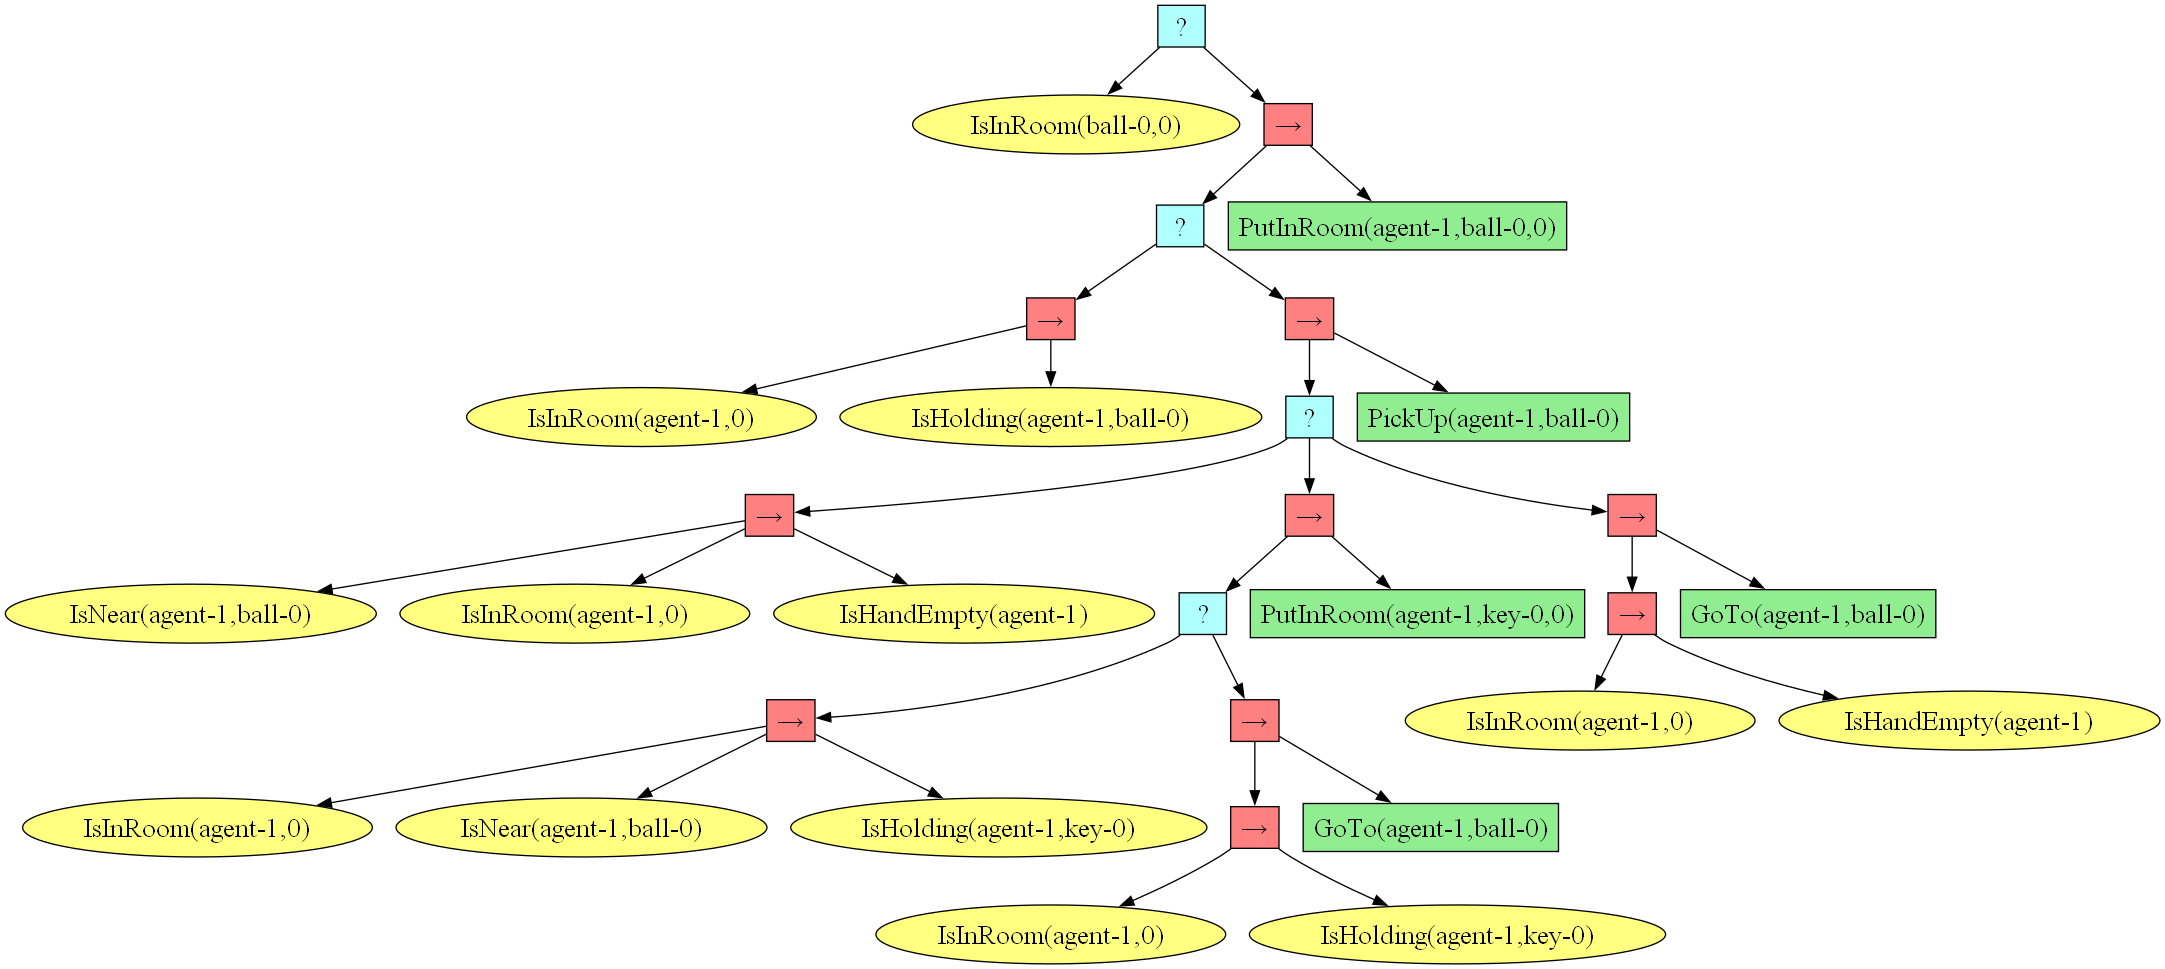
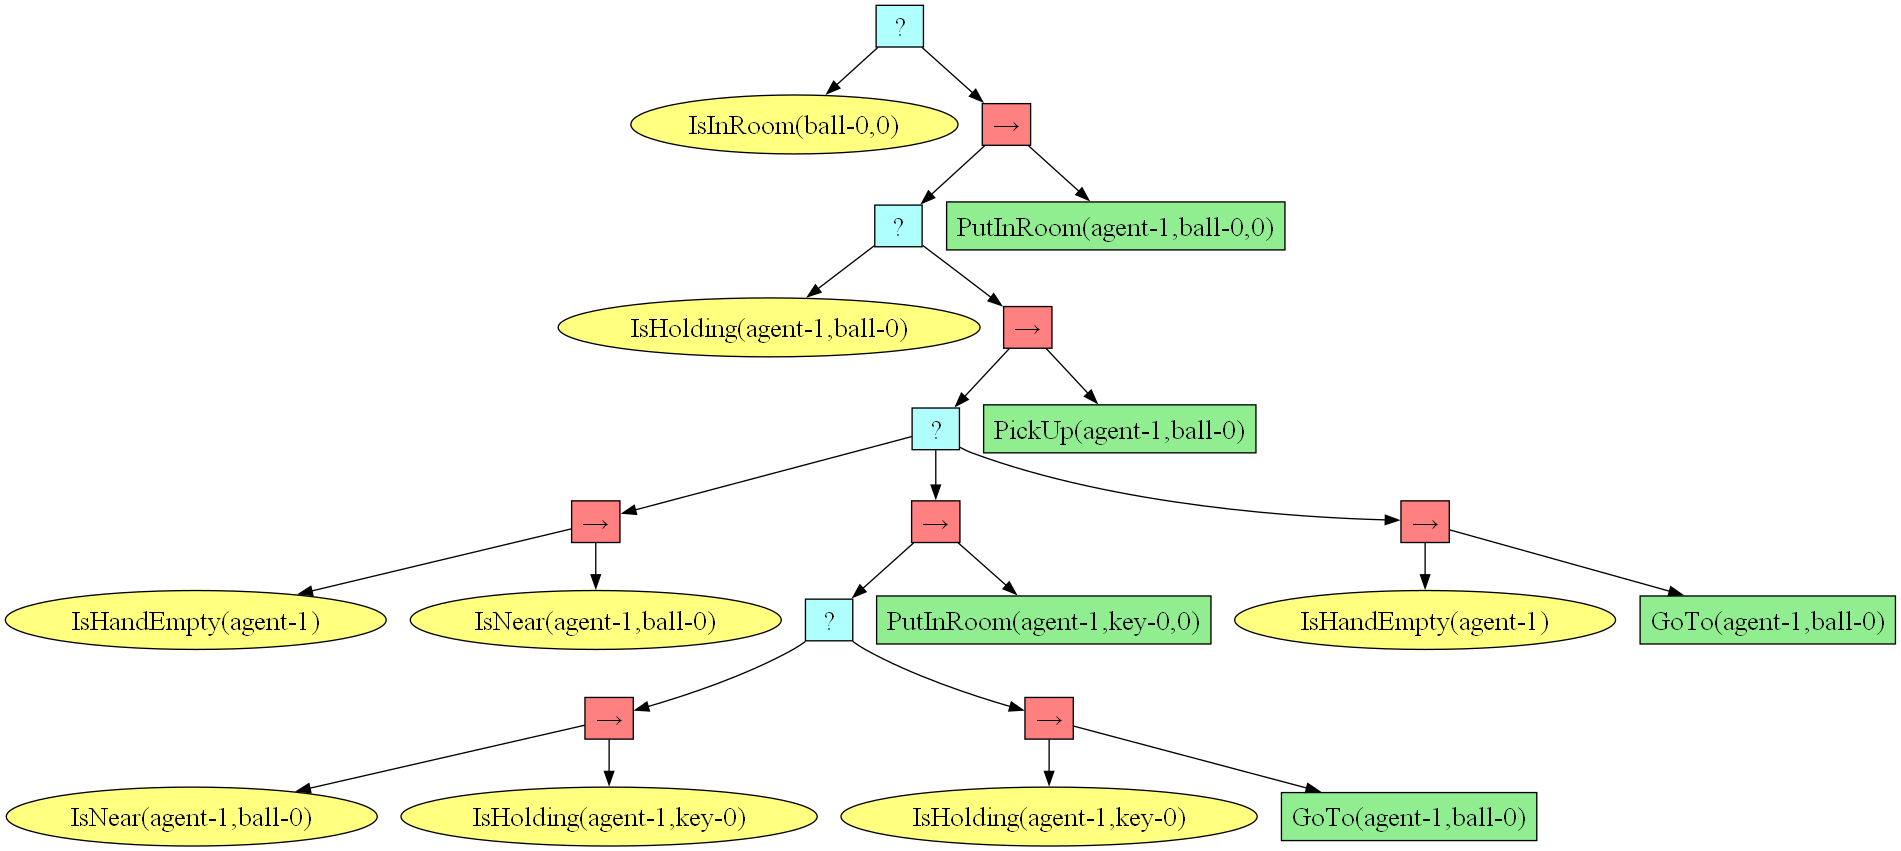
update

diff --git a/mabtpg/envs/gridenv/minigrid/behavior_lib/Action/PutInRoom.py b/mabtpg/envs/gridenv/minigrid/behavior_lib/Action/PutInRoom.py
@@ -6,6 +6,7 @@ from mabtpg.envs.gridenv.minigrid.planning_action import PlanningAction
 from mabtpg.envs.gridenv.minigrid.utils import obj_to_planning_name, get_direction_index
 import numpy as np
 import random
+from mabtpg.envs.gridenv.minigrid.behavior_lib.Action.astar_algo import astar
 
 
 class PutInRoom(Action):
@@ -15,7 +16,7 @@ class PutInRoom(Action):
     def __init__(self, *args):
         super().__init__(*args)
         self.path = None
-        self.room_index = args[1]
+        self.room_index = int(args[2])
 
     @classmethod
     def get_planning_action_list(cls, agent, env):
@@ -34,7 +35,9 @@ class PutInRoom(Action):
         for room_id in range(room_num):
             for obj_id in can_pickup:
                 action_model = {}
-                action_model["pre"]= {f"IsHolding(agent-{agent.id},{obj_id})",f"IsInRoom(agent-{agent.id},{room_id})"}
+                # error:if the agent go to in another room it will fail
+                # action_model["pre"]= {f"IsHolding(agent-{agent.id},{obj_id})",f"IsInRoom(agent-{agent.id},{room_id})"}
+                action_model["pre"] = {f"IsHolding(agent-{agent.id},{obj_id})", f"IsInRoom({obj_id},{room_id})"}
                 action_model["add"]={f"IsHandEmpty(agent-{agent.id})",f"IsInRoom({obj_id},{room_id})"}
                 action_model["del_set"] = {f"IsHolding(agent-{agent.id},{obj_id})"}
                 action_model["cost"] = 1
@@ -48,21 +51,25 @@ class PutInRoom(Action):
             raise ValueError(f"Room index {self.room_index} does not exist.")
 
 
-        x, y = self.agent.cur_pos
+        x, y = self.agent.position
         directions = [(x+1, y), (x-1, y), (x, y+1), (x, y-1)]
         random.shuffle(directions)
 
-        for (nx, ny) in directions:
-            if 0 <= nx < self.env.width and 0 <= ny < self.env.height:
-                cell = self.env.minigrid_env.grid.get(nx, ny)
-                if cell is None:
+        if self.path is None:
+            for (nx, ny) in directions:
+                if 0 <= nx < self.env.width and 0 <= ny < self.env.height:
+                    cell = self.env.minigrid_env.grid.get(nx, ny)
+                    if cell is None:
 
-                    next_direction =  (nx, ny)
-                    turn_to_action = self.turn_to(next_direction)
-                    if turn_to_action == Actions.done:
-                        self.agent.action = Actions.forward
+                        # next_direction =  (nx, ny)
+                        # turn_to_action = self.turn_to(next_direction)
+                        # if turn_to_action == Actions.done:
+                        #     self.agent.action = Actions.forward
+                        self.goal = [nx,ny]
+                        self.path = astar(self.env.grid, start=self.agent.position, goal=self.goal)
 
-                    self.agent.action = Actions.drop
+        if self.path == []:
+            self.agent.action = Actions.drop
 
         return Status.RUNNING
 

diff --git a/mabtpg/envs/gridenv/minigrid/behavior_lib/Condition/IsInRoom.py b/mabtpg/envs/gridenv/minigrid/behavior_lib/Condition/IsInRoom.py
@@ -29,6 +29,8 @@ class IsInRoom(Condition):
 
     def update(self) -> Status:
 
+        self.room_index_ls = []
+
         if "agent" in self.args[0]:
             if self.target_agent is None:
                 agent_id = int(self.args[0].split("-")[-1])
@@ -41,8 +43,7 @@ class IsInRoom(Condition):
             if cell is not None and cell.type == "door":
                 self.room_index_ls.extend(list(self.env.doors_to_adj_rooms[cell.id]))
         else:
-            if self.target_obj is None:
-                self.target_obj = self.env.id2obj[self.args[0]]
+            self.target_obj = self.env.id2obj[self.args[0]]
             self.room_index_ls = [self.env.get_room_index(self.target_obj.cur_pos)]
 
 
